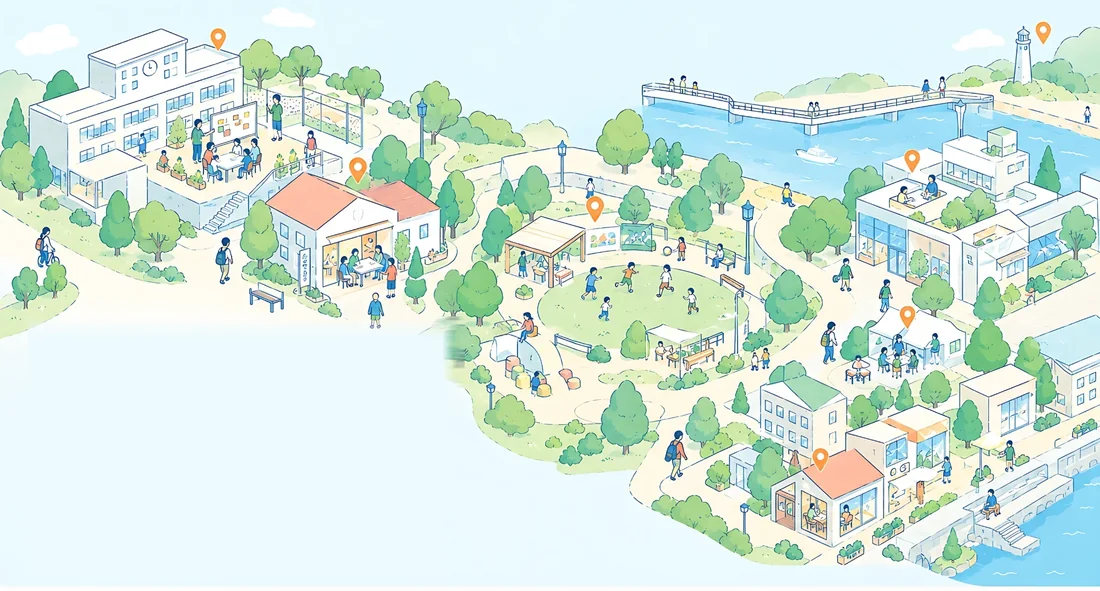
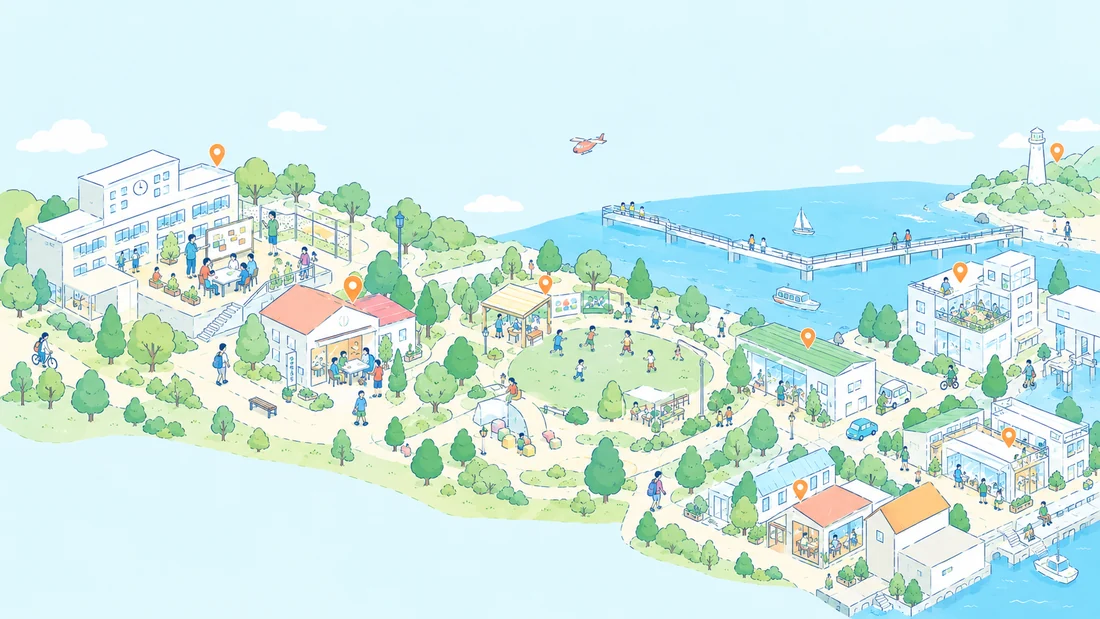
Swap in the clean map illustration
文字の入っていないイラストをいただいたので、塗りつぶしで消した版から
差し替えた（1672x941、スマホ用1100px）。空の雲・ヨット・飛行機など
元の絵がそのまま出る。

diff --git a/top-c/index.html b/top-c/index.html
@@ -143,8 +143,8 @@ footer{border-top:1px solid var(--line);margin-top:30px;padding:36px 0 56px;colo
 
 <section class="hero" id="top">
   <div class="hero-art"><picture>
-    <source media="(max-width:700px)" srcset="../assets/hero-map-sp.webp" width="1100" height="591">
-    <img src="../assets/hero-map.webp" width="2000" height="1074" fetchpriority="high" alt="学校・公園・川沿いのまちで、子どもたちが遊んだり集まったりしているようすを俯瞰で描いたイラスト"></picture></div>
+    <source media="(max-width:700px)" srcset="../assets/hero-map-sp.webp" width="1100" height="619">
+    <img src="../assets/hero-map.webp" width="1672" height="941" fetchpriority="high" alt="学校・公園・川沿いのまちで、子どもたちが遊んだり集まったりしているようすを俯瞰で描いたイラスト"></picture></div>
   <div class="hero-in">
     <div>
       <h1>まちであそぶ、<br>をつくる。</h1>
